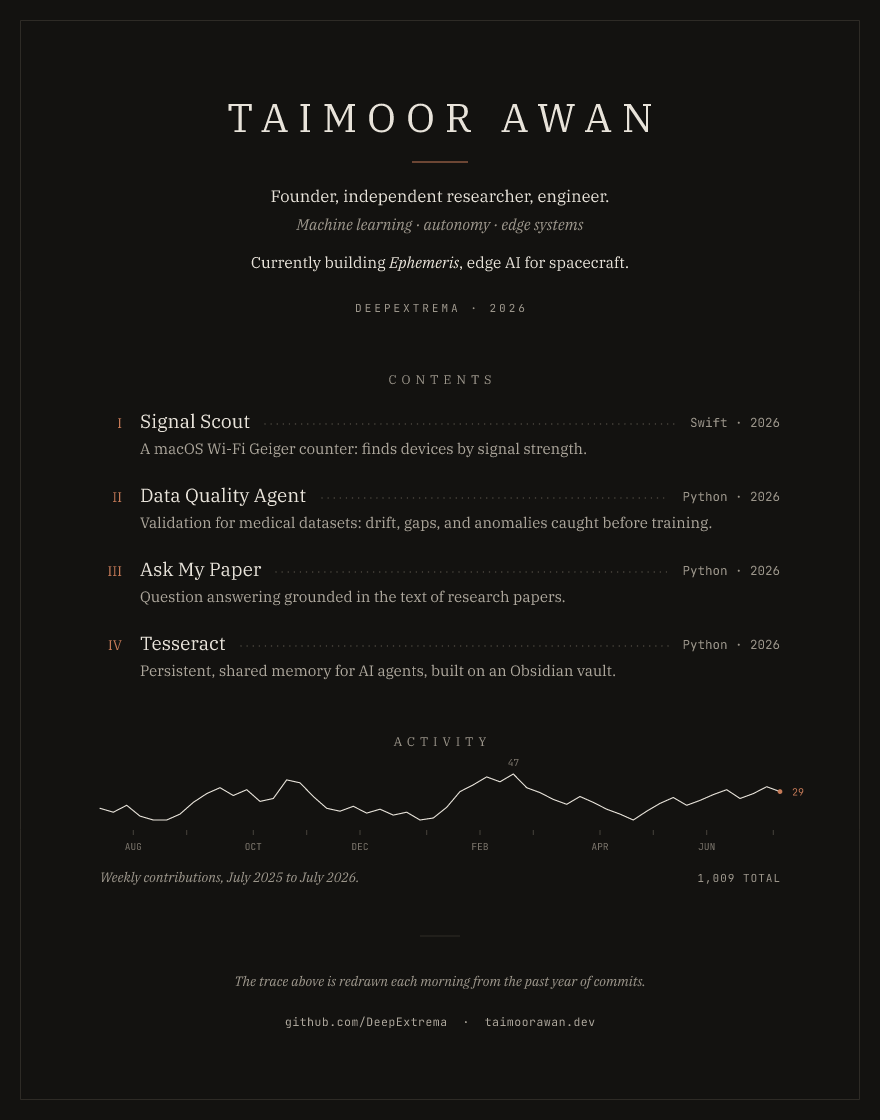
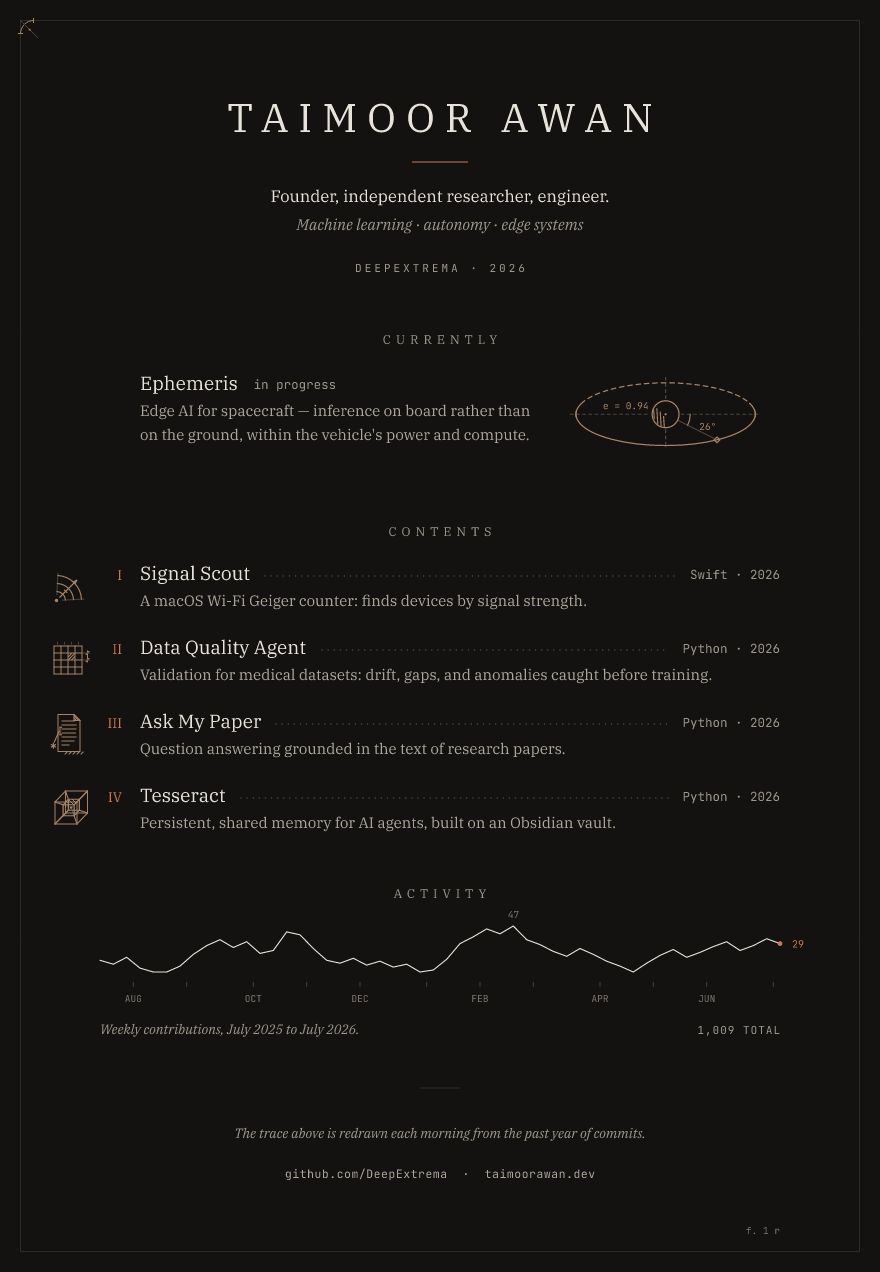
design: evolve the colophon into a codex page; Tesseract replaces ARES
The page keeps its book register and gains the drawing language of a
Renaissance notebook, in a second sepia ink: an orbital construction
beside a new CURRENTLY section for Ephemeris, a hairline marginal
emblem for each project (signal fan, inspected grid, bracketed folio,
wireframe tesseract), a compass mark in the top-left corner, and a
folio mark. Figures may only carry annotations that are true of the
drawing itself.

Tesseract (tesseract-mcp — persistent, shared memory for AI agents on
an Obsidian vault) replaces ARES in the contents. Temporarily re-adds
the branch to the build trigger so the Action regenerates the plates;
reverted before merge.

Claude-Session: https://claude.ai/code/session_0138YqXF3pjah3RcpZHVw7fK

diff --git a/src/svg/diagrams.js b/src/svg/diagrams.js
@@ -1,0 +1,195 @@
+// The page's second ink: hairline figures in the manner of a notebook —
+// measured, constructed, sparsely hatched. Everything here draws with
+// pal.sepia (the drawing ink) and pal.construction (faint construction
+// lines); text ink and rubric red stay reserved for typography.
+//
+// The only annotations allowed on a figure are statements that are true of
+// the drawing itself (its eccentricity, its constructed angle) — never
+// invented measurements.
+//
+// Emblems draw inside a 46x46 live area centered on (cx, cy); the artwork
+// was authored on a 60x60 canvas centered on (30, 30).
+
+function emblem(cx, cy, inner) {
+  return `<g transform="translate(${cx - 30} ${cy - 30})" fill="none" stroke-linecap="round" stroke-linejoin="round">${inner}</g>`;
+}
+
+// Signal Scout — a source located by its field: quarter-fan of arcs with a
+// measured bearing ray.
+function signal(cx, cy, pal) {
+  return emblem(cx, cy, `
+    <g stroke="${pal.construction}" stroke-width="1">
+      <line x1="15.81" y1="38.51" x2="16.94" y2="17.04"/>
+      <line x1="21.49" y1="44.19" x2="42.96" y2="43.06"/>
+    </g>
+    <g stroke="${pal.sepia}" stroke-width="1.1">
+      <path d="M 15.97 35.51 A 9 9 0 0 1 24.49 44.03"/>
+      <path d="M 16.39 27.52 A 17 17 0 0 1 32.48 43.61"/>
+      <path d="M 16.81 19.53 A 25 25 0 0 1 40.47 43.19"/>
+      <line x1="18.68" y1="41.32" x2="35.65" y2="24.35"/>
+      <line x1="35.65" y1="24.35" x2="34.25" y2="27.66"/>
+      <line x1="35.65" y1="24.35" x2="32.34" y2="25.75"/>
+      <line x1="23.42" y1="34.03" x2="25.97" y2="36.58"/>
+    </g>
+    <circle cx="15.5" cy="44.5" r="1.7" fill="${pal.sepia}" stroke="none"/>
+  `);
+}
+
+// Data Quality Agent — an inspected table: 4x4 grid, one hatched cell, a
+// caliper measuring the flagged row.
+function grid(cx, cy, pal) {
+  return emblem(cx, cy, `
+    <g stroke="${pal.sepia}" stroke-width="1.1">
+      <path d="M 13 16 H 41 V 44 H 13 Z"/>
+      <line x1="20" y1="16" x2="20" y2="44"/>
+      <line x1="13" y1="23" x2="41" y2="23"/>
+      <line x1="27" y1="16" x2="27" y2="44"/>
+      <line x1="13" y1="30" x2="41" y2="30"/>
+      <line x1="34" y1="16" x2="34" y2="44"/>
+      <line x1="13" y1="37" x2="41" y2="37"/>
+      <line x1="27.5" y1="26.61" x2="30.61" y2="23.5"/>
+      <line x1="27.72" y1="29.5" x2="33.5" y2="23.72"/>
+      <line x1="30.83" y1="29.5" x2="33.5" y2="26.83"/>
+      <line x1="46.5" y1="21" x2="46.5" y2="32"/>
+      <line x1="45" y1="24.5" x2="48" y2="21.5"/>
+      <line x1="45" y1="31.5" x2="48" y2="28.5"/>
+    </g>
+    <g stroke="${pal.construction}" stroke-width="1">
+      <line x1="16.5" y1="12.2" x2="16.5" y2="14.2"/>
+      <line x1="23.5" y1="12.2" x2="23.5" y2="14.2"/>
+      <line x1="30.5" y1="12.2" x2="30.5" y2="14.2"/>
+      <line x1="37.5" y1="12.2" x2="37.5" y2="14.2"/>
+      <line x1="41.8" y1="23" x2="48.5" y2="23"/>
+      <line x1="41.8" y1="30" x2="48.5" y2="30"/>
+    </g>
+  `);
+}
+
+// Ask My Paper — a folio with a bracketed passage and an annotation leader
+// ending in an asterisk; hatched ground shadow.
+function folio(cx, cy, pal) {
+  return emblem(cx, cy, `
+    <g stroke="${pal.sepia}" stroke-width="1.1">
+      <path d="M 17 10.5 H 33 L 39 16.5 V 47.5 H 17 Z"/>
+      <line x1="33" y1="10.5" x2="33" y2="16.5"/>
+      <line x1="33" y1="16.5" x2="39" y2="16.5"/>
+      <line x1="33" y1="14.1" x2="35.4" y2="16.5"/>
+      <line x1="33" y1="11.9" x2="37.6" y2="16.5"/>
+      <line x1="21" y1="17" x2="33.5" y2="17"/>
+      <line x1="21" y1="21" x2="35" y2="21"/>
+      <line x1="21" y1="25" x2="35" y2="25"/>
+      <line x1="21" y1="29" x2="34.5" y2="29"/>
+      <line x1="21" y1="33" x2="35" y2="33"/>
+      <line x1="21" y1="37" x2="33" y2="37"/>
+      <line x1="21" y1="41" x2="28" y2="41"/>
+      <line x1="19" y1="23.2" x2="19" y2="30.8"/>
+      <line x1="19" y1="23.2" x2="20.6" y2="23.2"/>
+      <line x1="19" y1="30.8" x2="20.6" y2="30.8"/>
+      <line x1="18.2" y1="27" x2="13.2" y2="38.2"/>
+      <line x1="12.4" y1="39.3" x2="12.4" y2="44.3"/>
+      <line x1="10.23" y1="40.55" x2="14.58" y2="43.05"/>
+      <line x1="10.23" y1="43.05" x2="14.58" y2="40.55"/>
+      <line x1="24" y1="50.1" x2="26.2" y2="48"/>
+      <line x1="28" y1="50.1" x2="30.2" y2="48"/>
+      <line x1="32" y1="50.1" x2="34.2" y2="48"/>
+      <line x1="36" y1="50.1" x2="38.2" y2="48"/>
+      <line x1="40" y1="50.1" x2="42.2" y2="48"/>
+    </g>
+  `);
+}
+
+// Tesseract — the 4-cube in cavalier projection: inner cube is the outer
+// scaled 0.5 about the marked projection center, rays shown.
+function tesseract(cx, cy, pal) {
+  return emblem(cx, cy, `
+    <g stroke="${pal.construction}" stroke-width="1">
+      <line x1="22.125" y1="37.75" x2="30.25" y2="29.5"/>
+      <line x1="33.125" y1="37.75" x2="30.25" y2="29.5"/>
+      <line x1="33.125" y1="26.75" x2="30.25" y2="29.5"/>
+      <line x1="22.125" y1="26.75" x2="30.25" y2="29.5"/>
+    </g>
+    <g stroke="${pal.sepia}" stroke-width="1.1">
+      <path d="M 14 46 L 36 46 L 36 24 L 14 24 Z"/>
+      <path d="M 24.5 35 L 46.5 35 L 46.5 13 L 24.5 13 Z"/>
+      <line x1="14" y1="46" x2="24.5" y2="35"/>
+      <line x1="36" y1="46" x2="46.5" y2="35"/>
+      <line x1="36" y1="24" x2="46.5" y2="13"/>
+      <line x1="14" y1="24" x2="24.5" y2="13"/>
+      <path d="M 22.125 37.75 L 33.125 37.75 L 33.125 26.75 L 22.125 26.75 Z"/>
+      <path d="M 27.375 32.25 L 38.375 32.25 L 38.375 21.25 L 27.375 21.25 Z"/>
+      <line x1="22.125" y1="37.75" x2="27.375" y2="32.25"/>
+      <line x1="33.125" y1="37.75" x2="38.375" y2="32.25"/>
+      <line x1="33.125" y1="26.75" x2="38.375" y2="21.25"/>
+      <line x1="22.125" y1="26.75" x2="27.375" y2="21.25"/>
+      <line x1="14" y1="46" x2="22.125" y2="37.75"/>
+      <line x1="36" y1="46" x2="33.125" y2="37.75"/>
+      <line x1="36" y1="24" x2="33.125" y2="26.75"/>
+      <line x1="14" y1="24" x2="22.125" y2="26.75"/>
+      <line x1="24.5" y1="35" x2="27.375" y2="32.25"/>
+      <line x1="46.5" y1="35" x2="38.375" y2="32.25"/>
+      <line x1="46.5" y1="13" x2="38.375" y2="21.25"/>
+      <line x1="24.5" y1="13" x2="27.375" y2="21.25"/>
+    </g>
+    <g stroke="${pal.sepia}" stroke-width="1">
+      <line x1="28.75" y1="26.75" x2="25.36" y2="23.36"/>
+      <line x1="32.75" y1="26.75" x2="27.31" y2="21.32"/>
+      <line x1="34.9" y1="24.9" x2="31.25" y2="21.25"/>
+    </g>
+    <circle cx="30.25" cy="29.5" r="1.2" fill="${pal.sepia}" stroke="none"/>
+  `);
+}
+
+// Ephemeris — an orbital construction, 220x100 at (x, y): planet on broken
+// axes, near arc solid and far arc dashed, spacecraft diamond, the true
+// anomaly under measurement. The drawn ellipse (80x28) has e = 0.94; the
+// constructed radius sits 26 degrees off the major axis — both annotations
+// measure the figure itself.
+function orbit(x, y, pal) {
+  return `<g transform="translate(${x} ${y}) scale(1.12)" fill="none" stroke-linecap="round" stroke-linejoin="round">
+    <g stroke="${pal.construction}" stroke-width="1">
+      <line x1="20" y1="52" x2="91" y2="52" stroke-dasharray="2.5 3"/>
+      <line x1="119" y1="52" x2="190" y2="52" stroke-dasharray="2.5 3"/>
+      <line x1="105" y1="19" x2="105" y2="38" stroke-dasharray="2.5 3"/>
+      <line x1="105" y1="66" x2="105" y2="81" stroke-dasharray="2.5 3"/>
+      <line x1="116.2" y1="57.6" x2="148" y2="73.4"/>
+    </g>
+    <g stroke="${pal.sepia}" stroke-width="1">
+      <line x1="25" y1="49.8" x2="25" y2="54.2"/>
+      <line x1="185" y1="49.8" x2="185" y2="54.2"/>
+      <line x1="94.3" y1="48" x2="94.9" y2="56"/>
+      <line x1="97.2" y1="47" x2="98" y2="61"/>
+      <line x1="100.2" y1="50" x2="101" y2="62.5"/>
+      <line x1="103.2" y1="54" x2="103.8" y2="63"/>
+      <path d="M 127 52 A 22 22 0 0 1 124.7 61.8"/>
+    </g>
+    <g stroke="${pal.sepia}" stroke-width="1.1">
+      <path d="M 29.8 42.4 A 80 28 0 1 0 180.2 42.4"/>
+      <path d="M 29.8 42.4 A 80 28 0 0 1 180.2 42.4" stroke-dasharray="4 3.5"/>
+      <circle cx="105" cy="52" r="12"/>
+      <path d="M 150.9 72.3 L 153.5 74.9 L 150.9 77.5 L 148.3 74.9 Z"/>
+    </g>
+    <circle cx="105" cy="52" r="1" fill="${pal.sepia}" stroke="none"/>
+    <text x="135" y="66" font-family="JetBrains Mono" font-size="8.5" fill="${pal.sepia}" stroke="none">26&#176;</text>
+    <text x="49" y="47.5" font-family="JetBrains Mono" font-size="8.5" fill="${pal.sepia}" stroke="none">e = 0.94</text>
+  </g>`;
+}
+
+// Frame corner construction: one compass mark in the top-left corner — a
+// quarter arc centered on the corner, ticks where it meets the frame, the
+// diagonal, and the intersection point. The construction is done once, as it
+// would be in a notebook; the other corners stay plain.
+function cornerMarks(w, h, pal) {
+  const m = 20.5;
+  const R = 13;
+  return `<g fill="none" stroke="${pal.sepia}" stroke-width="1" stroke-linecap="round">
+    <path d="M ${m + R} ${m} A ${R} ${R} 0 0 0 ${m} ${m + R}"/>
+    <line x1="${m + R}" y1="${m - 2.2}" x2="${m + R}" y2="${m + 2.2}"/>
+    <line x1="${m - 2.2}" y1="${m + R}" x2="${m + 2.2}" y2="${m + R}"/>
+    <line x1="${m}" y1="${m}" x2="${m + 17.5}" y2="${m + 17.5}" stroke="${pal.construction}"/>
+    <circle cx="${m + 9.19}" cy="${m + 9.19}" r="1" fill="${pal.sepia}" stroke="none"/>
+  </g>`;
+}
+
+const EMBLEMS = { signal, grid, folio, tesseract };
+
+module.exports = { EMBLEMS, orbit, cornerMarks };

diff --git a/src/svg/colophon.js b/src/svg/colophon.js
@@ -2,19 +2,22 @@ const { fontDefs } = require('../fonts');
 const { escapeXml } = require('./xml');
 const { measureSerif500, measureMono } = require('./metrics');
 const { aggregateWeeks, rangeCaption } = require('../data/weekly');
+const { EMBLEMS, orbit, cornerMarks } = require('./diagrams');
 
-// One plate, two inks. The dark paper is deliberately warmer than GitHub's
-// #0d1117 so the page frame reads as a page edge, not a themed card.
+// One plate, three inks: text ink, a sepia drawing ink for the figures, and
+// rubric red reserved for typography. The dark paper is deliberately warmer
+// than GitHub's #0d1117 so the page frame reads as a page edge, not a
+// themed card.
 const PALETTES = {
   light: {
     paper: '#FAF9F6', ink: '#1C1B18', muted: '#6E6A63', desc: '#55514A',
     hairline: '#DCD8CF', leader: '#B9B3A8', tick: '#C9C4BA', faint: '#9B958A',
-    rubric: '#96402A',
+    rubric: '#96402A', sepia: '#8A6A48', construction: '#CBBFA9',
   },
   dark: {
     paper: '#131210', ink: '#E8E3DA', muted: '#9C968B', desc: '#ACA69B',
     hairline: '#2E2B26', leader: '#555047', tick: '#45413A', faint: '#79736A',
-    rubric: '#C67A57',
+    rubric: '#C67A57', sepia: '#A58466', construction: '#4A443A',
   },
 };
 
@@ -44,29 +47,47 @@ function polylineLength(pts) {
 
 function renderTitlePage(cfg, pal, imprintYear) {
   const t = cfg.titlePage;
-  const currently = `${escapeXml(t.currently.pre)}<tspan font-style="italic">${escapeXml(t.currently.work)}</tspan>${escapeXml(t.currently.post)}`;
   const imprint = `${escapeXml(cfg.githubLogin.toUpperCase())} &#183; ${imprintYear}`;
   return [
     serif(CX, 132, 40, pal.ink, escapeXml(cfg.name.toUpperCase()), 'text-anchor="middle" font-weight="500" letter-spacing="10"'),
     `<line x1="${CX - 28}" y1="162" x2="${CX + 28}" y2="162" stroke="${pal.rubric}" stroke-width="1"/>`,
     serif(CX, 202, 16.5, pal.ink, escapeXml(t.role), 'text-anchor="middle"'),
     serif(CX, 230, 15.5, pal.muted, escapeXml(t.fields), 'text-anchor="middle" font-style="italic"'),
-    serif(CX, 268, 15.5, pal.ink, currently, 'text-anchor="middle"'),
-    mono(CX, 312, 11, pal.muted, imprint, 'text-anchor="middle" letter-spacing="3"'),
+    mono(CX, 272, 11, pal.muted, imprint, 'text-anchor="middle" letter-spacing="3"'),
   ].join('\n  ');
 }
 
+const NOW_LABEL_Y = 344;
+
+function renderNow(cfg, pal) {
+  const parts = [
+    serif(CX, NOW_LABEL_Y, 12.5, pal.muted, 'CURRENTLY', 'text-anchor="middle" font-weight="500" letter-spacing="5"'),
+    serif(140, NOW_LABEL_Y + 46, 19, pal.ink, escapeXml(cfg.now.name), 'font-weight="500"'),
+    mono(140 + measureSerif500(cfg.now.name, 19) + 14, NOW_LABEL_Y + 45, 12.5, pal.muted, 'in progress'),
+  ];
+  cfg.now.lines.forEach((line, i) => {
+    parts.push(serif(140, NOW_LABEL_Y + 72 + i * 24, 15, pal.desc, escapeXml(line)));
+  });
+  parts.push(orbit(548, NOW_LABEL_Y + 12, pal));
+  return parts.join('\n  ');
+}
+
+const CONTENTS_LABEL_Y = 536;
+const ENTRIES_START_Y = 580;
+
 function renderContents(cfg, pal) {
   const parts = [
-    serif(CX, 384, 12.5, pal.muted, 'CONTENTS', 'text-anchor="middle" font-weight="500" letter-spacing="5"'),
+    serif(CX, CONTENTS_LABEL_Y, 12.5, pal.muted, 'CONTENTS', 'text-anchor="middle" font-weight="500" letter-spacing="5"'),
   ];
   cfg.projects.forEach((p, i) => {
-    const y = 428 + i * ENTRY_STEP;
+    const y = ENTRIES_START_Y + i * ENTRY_STEP;
     const numeral = ROMAN[i] || String(i + 1);
     const detail = `${p.language} · ${p.year}`;
     const nameEnd = 140 + measureSerif500(p.name, 19);
     const leaderStart = Math.round(nameEnd + 12);
     const leaderEnd = Math.round(TEXT_R - measureMono(detail, 12.5) - 14);
+    const emblem = EMBLEMS[p.emblem];
+    if (emblem) parts.push(emblem(71, y + 6, pal));
     parts.push(serif(122, y, 14, pal.rubric, numeral, 'text-anchor="end" font-weight="500"'));
     parts.push(serif(140, y, 19, pal.ink, escapeXml(p.name), 'font-weight="500"'));
     if (leaderStart + 20 < leaderEnd) {
@@ -161,7 +182,7 @@ function renderColophon(cfg, weeks, opts = {}) {
   const series = aggregateWeeks(weeks || []);
   const imprintYear = series.lastDay ? series.lastDay.y : new Date().getFullYear();
 
-  const entriesBottom = 428 + (cfg.projects.length - 1) * ENTRY_STEP + 26;
+  const entriesBottom = ENTRIES_START_Y + (cfg.projects.length - 1) * ENTRY_STEP + 26;
   const activityLabelY = entriesBottom + 70;
   const activity = renderActivity(series, pal, activityLabelY);
   const foot = renderColophonFoot(cfg, pal, activity.bottomY + 54);
@@ -173,10 +194,13 @@ function renderColophon(cfg, weeks, opts = {}) {
   ${defs}
   <rect width="${W}" height="${height}" fill="${pal.paper}"/>
   <rect x="20.5" y="20.5" width="${W - 41}" height="${height - 41}" fill="none" stroke="${pal.hairline}" stroke-width="1"/>
+  ${cornerMarks(W, height, pal)}
   ${renderTitlePage(cfg, pal, imprintYear)}
+  ${renderNow(cfg, pal)}
   ${renderContents(cfg, pal)}
   ${activity.svg}
   ${foot.svg}
+  ${mono(TEXT_R, height - 38, 9.5, pal.faint, 'f. 1 r', 'text-anchor="end"')}
 </svg>`;
 }
 

diff --git a/src/config.js b/src/config.js
@@ -1,7 +1,7 @@
 const fs = require('fs');
 const path = require('path');
 
-const REQUIRED = ['name', 'githubLogin', 'titlePage', 'projects', 'colophon'];
+const REQUIRED = ['name', 'githubLogin', 'titlePage', 'now', 'projects', 'colophon'];
 
 function loadConfig(file = path.join(__dirname, '..', 'profile.config.json')) {
   const cfg = JSON.parse(fs.readFileSync(file, 'utf8'));
@@ -9,8 +9,11 @@ function loadConfig(file = path.join(__dirname, '..', 'profile.config.json')) {
   if (missing.length) throw new Error(`Config missing required field(s): ${missing.join(', ')}`);
 
   const t = cfg.titlePage;
-  if (!t.role || !t.fields || !t.currently || t.currently.work === undefined) {
-    throw new Error('Config missing required field: titlePage.role/fields/currently');
+  if (!t.role || !t.fields) {
+    throw new Error('Config missing required field: titlePage.role/fields');
+  }
+  if (!cfg.now.name || !Array.isArray(cfg.now.lines) || cfg.now.lines.length === 0) {
+    throw new Error('Config missing required field: now.name/lines');
   }
   if (!Array.isArray(cfg.projects) || cfg.projects.length === 0) {
     throw new Error('Config missing required field: projects');

diff --git a/tests/colophon.test.js b/tests/colophon.test.js
@@ -34,7 +34,22 @@ test('title page sets the name in caps with a plain-figure imprint', () => {
   expect(svg).toContain('TAIMOOR AWAN');
   expect(svg).toContain('DEEPEXTREMA &#183; 2026');
   expect(svg).not.toContain('MMXXVI');
-  expect(svg).toContain('<tspan font-style="italic">Ephemeris</tspan>');
+});
+
+test('the now section presents the current work with its figure', () => {
+  const svg = renderColophon(cfg, fixtureWeeks(), { embedFonts: false });
+  expect(svg).toContain('CURRENTLY');
+  expect(svg).toContain('>Ephemeris<');
+  expect(svg).toContain('in progress');
+  cfg.now.lines.forEach((l) => expect(svg).toContain(l.replace(/'/g, '&apos;').replace(/—/g, '—')));
+});
+
+test('every project carries its marginal emblem and the page its marks', () => {
+  const svg = renderColophon(cfg, fixtureWeeks(), { embedFonts: false });
+  // four emblems + orbit figure draw in the sepia ink
+  const sepia = (svg.match(/stroke="#8A6A48"/g) || []).length;
+  expect(sepia).toBeGreaterThanOrEqual(5);
+  expect(svg).toContain('f. 1 r');
 });
 
 test('contents lists every project with numeral, leader, detail, and description', () => {

diff --git a/tests/config.test.js b/tests/config.test.js
@@ -5,7 +5,8 @@ test('loads the real profile.config.json with required fields', () => {
   const cfg = loadConfig();
   expect(cfg.name).toBe('Taimoor Awan');
   expect(cfg.githubLogin).toBe('DeepExtrema');
-  expect(cfg.titlePage.currently.work).toBe('Ephemeris');
+  expect(cfg.now.name).toBe('Ephemeris');
+  expect(cfg.now.lines.length).toBeGreaterThanOrEqual(1);
   expect(cfg.projects).toHaveLength(4);
   cfg.projects.forEach((p) => {
     expect(p.url).toMatch(/^https:\/\/github\.com\/DeepExtrema\//);

diff --git a/README.md b/README.md
@@ -2,7 +2,7 @@
 
 <picture>
   <source media="(prefers-color-scheme: dark)" srcset="assets/colophon-dark.svg">
-  <img src="assets/colophon-light.svg" width="880" alt="Taimoor Awan — founder, independent researcher, engineer. Machine learning, autonomy, edge systems. Currently building Ephemeris, edge AI for spacecraft. Contents: I. Signal Scout (Swift, 2026) — a macOS Wi-Fi Geiger counter that finds devices by signal strength. II. Data Quality Agent (Python, 2026) — validation for medical datasets: drift, gaps, and anomalies caught before training. III. Ask My Paper (Python, 2026) — question answering grounded in the text of research papers. IV. Tesseract (Python, 2026) — persistent, shared memory for AI agents, built on an Obsidian vault. Activity: a hairline trace of weekly GitHub contributions over the past year, redrawn daily.">
+  <img src="assets/colophon-light.svg" width="880" alt="Taimoor Awan — founder, independent researcher, engineer. Machine learning, autonomy, edge systems. Currently building Ephemeris: edge AI for spacecraft, inference on board rather than on the ground, illustrated with a small orbital construction drawing. Contents, each with a hairline ink emblem: I. Signal Scout (Swift, 2026) — a macOS Wi-Fi Geiger counter that finds devices by signal strength. II. Data Quality Agent (Python, 2026) — validation for medical datasets: drift, gaps, and anomalies caught before training. III. Ask My Paper (Python, 2026) — question answering grounded in the text of research papers. IV. Tesseract (Python, 2026) — persistent, shared memory for AI agents, built on an Obsidian vault. Activity: a hairline trace of weekly GitHub contributions over the past year, redrawn daily.">
 </picture>
 
 <sub><a href="https://github.com/DeepExtrema/signal-scout">Signal&nbsp;Scout</a> · <a href="https://github.com/DeepExtrema/DataQualityValidationAgentMedicalData">Data&nbsp;Quality&nbsp;Agent</a> · <a href="https://github.com/DeepExtrema/AskMyPaper">Ask&nbsp;My&nbsp;Paper</a> · <a href="https://github.com/DeepExtrema/tesseract-mcp">Tesseract</a>&emsp;·&emsp;<a href="https://taimoorawan.dev">taimoorawan.dev</a> · <a href="https://parallex-website.jubranalawdi76.workers.dev/">Ephemeris</a></sub>

diff --git a/docs/design/DESIGN.md b/docs/design/DESIGN.md
@@ -1,9 +1,13 @@
-# The colophon design
+# The codex design
 
-The profile page is set like the front matter of a finely made book: a
-letterspaced title page, a table of contents with leader dots, a year of
-work drawn as a single hairline trace, and a closing colophon that states
-plainly how the page is made. One plate, two inks, no decoration.
+The profile page is set like the front matter of a finely made book that
+has passed through a notebook-keeper's hands: a letterspaced title page, a
+table of contents with leader dots, a year of work drawn as a single
+hairline trace, and a closing colophon that states plainly how the page is
+made — annotated throughout with hairline ink figures in the manner of a
+Renaissance codex: an orbital construction beside the current work, a
+marginal emblem beside each project (a signal fan, an inspected grid, a
+bracketed folio, a wireframe tesseract), a compass mark in one corner.
 
 | Light | Dark |
 |---|---|
@@ -27,6 +31,11 @@ live data once the daily Action has run.)*
   `prefers-color-scheme`.
 - **Rubric red** (`#96402A` / `#C67A57`) appears exactly three times: the
   title rule, the contents numerals, and the current-week marker.
+- **A second ink for the figures.** All drawings use a sepia ink
+  (`#8A6A48` / `#A58466`) with faint construction lines, so text stays text
+  and figures read as figures. Drawings may only carry annotations that are
+  true of the drawing itself (the drawn ellipse's eccentricity, its
+  constructed angle) — never invented measurements.
 
 ## Type
 
